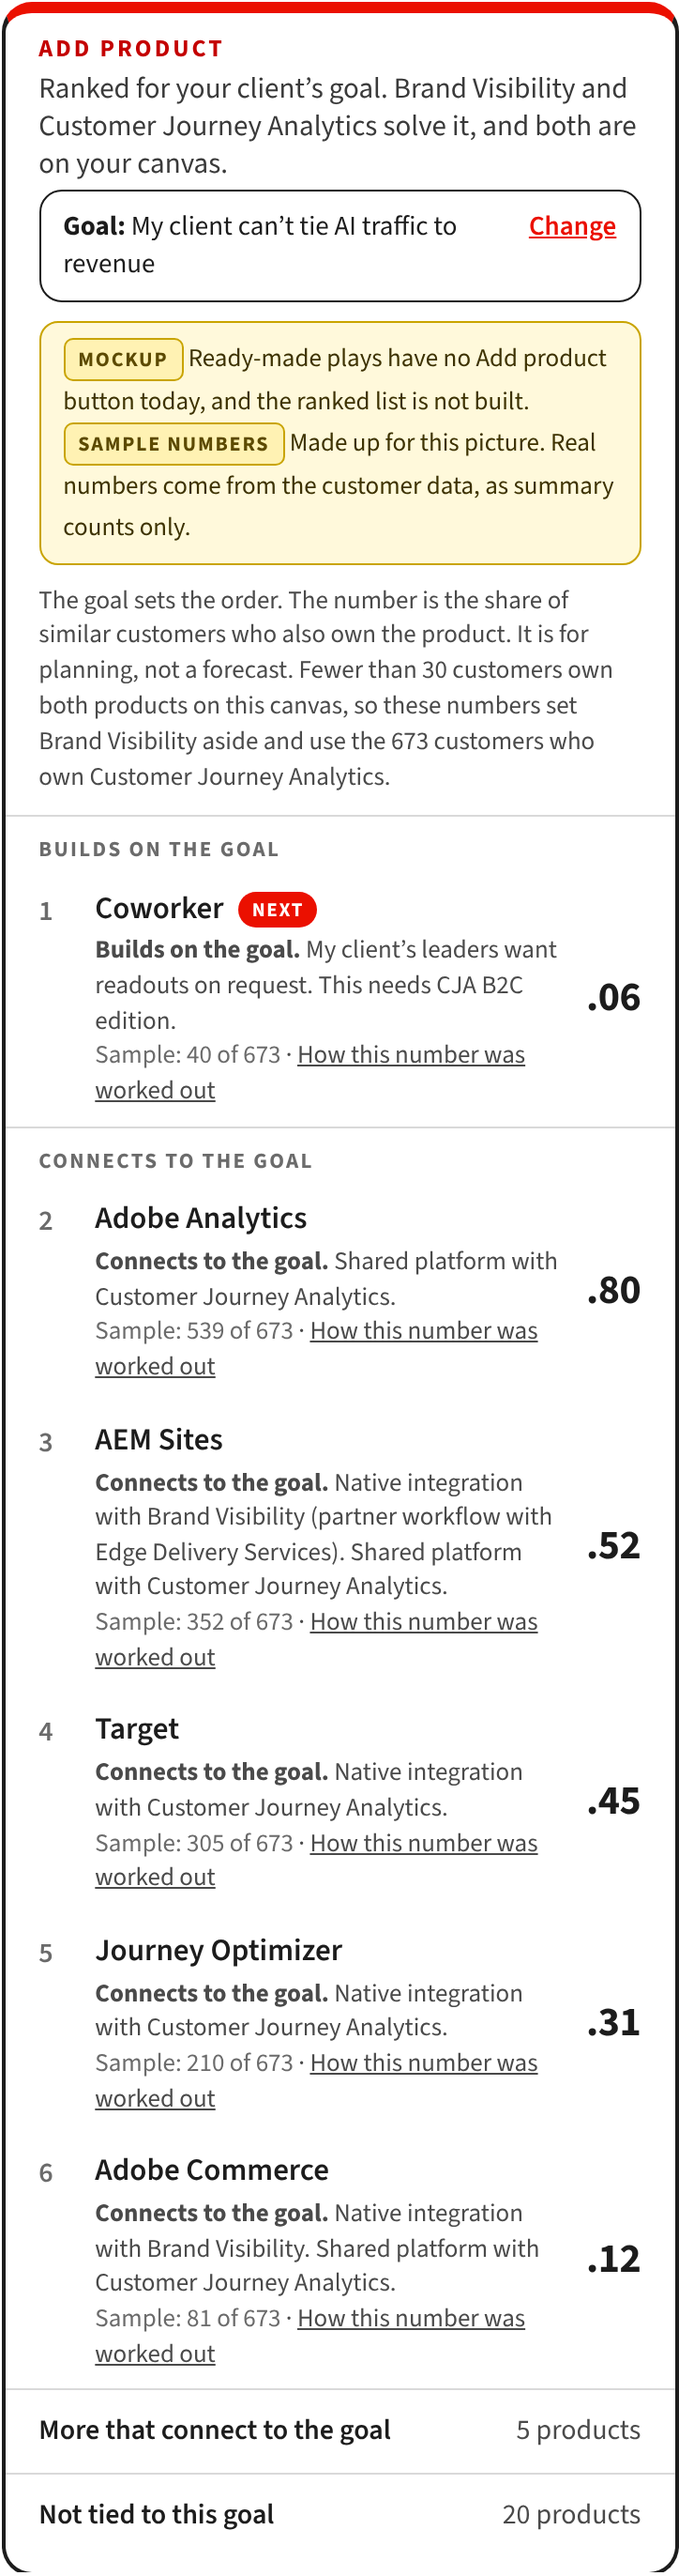
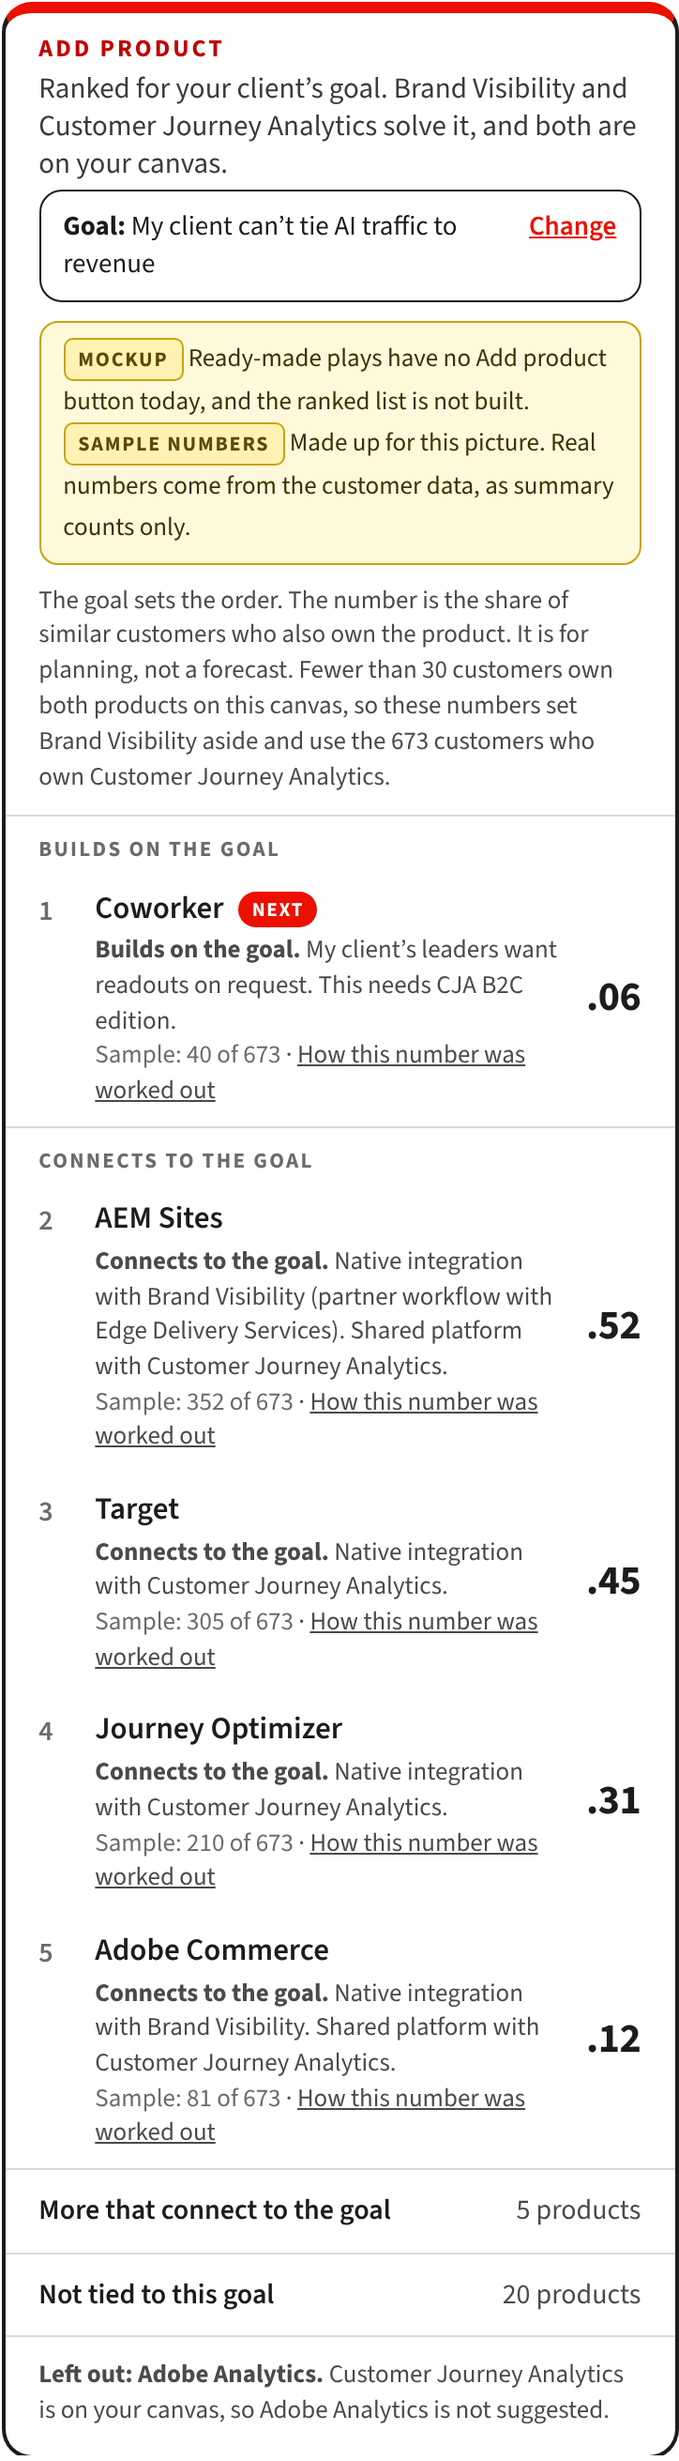
Handoff: Adam's rule (no Adobe Analytics with CJA) and no list before the data [skip netlify]
Work in progress only; nothing in the tool changes.
- Adam: never suggest Adobe Analytics when Customer Journey Analytics is on
  the canvas. The mockup leaves it out and says so; the tab explains rules
  set by hand.
- Adam: partners never see the list without numbers. The no-data mockup
  goes, and the tab says the list ships once the data is loaded and checked.

Claude-Session: https://claude.ai/code/session_016WYrHW3TmtC37K94o1NhYi

diff --git a/handoff/2026-11-17/propensity/method_page/propensity-method.html b/handoff/2026-11-17/propensity/method_page/propensity-method.html
@@ -165,15 +165,16 @@ main h1,main h2,main h3,main .micro{text-wrap:balance}
 </div></section>
 
 <section class="section capability-section sow-case cw-process pm-steps" id="logic"><div class="wrap">
-  <div class="section-heading"><div><p class="eyebrow">How it works</p><h2>The logic,<br>step by step.</h2></div><p>Six steps. The first two need no customer data, so they can work on day one. The other four start when the data is loaded and checked.</p></div>
+  <div class="section-heading"><div><p class="eyebrow">How it works</p><h2>The logic,<br>step by step.</h2></div><p>Six steps. The first two need no customer data. The other four start when the data is loaded and checked. Partners see the list only then, so every product in it comes with its number.</p></div>
   <ol class="capability-flow cw-steps">
       <li><p class="micro">Step 1 · <span>No data needed</span></p><h3>Ask the goal once</h3><p>The tool asks one question for each canvas: what is your client trying to accomplish? The partner picks one of the <strong>23</strong> client problems already in the tool, or types the goal and confirms the closest of the 23. The answer stays with that canvas until the partner changes it.</p></li>
-      <li><p class="micro">Step 2 · <span>No data needed</span></p><h3>Sort every product by fit</h3><p><strong>Solves the goal:</strong> the products that problem calls for. <strong>Builds on the goal:</strong> products added when the partner gives more detail about the client. <strong>Connects to the goal:</strong> products with a documented connection to one that solves it. Everything else comes last, under “Not tied to this goal”. AEM Sites and AEM Sites with Edge Delivery Services share one row. Products already on the canvas are not listed. When a ready-made play already holds every product that solves the goal, the list starts with products that build on the goal. Until the data is loaded, products under the same heading are in name order.</p></li>
+      <li><p class="micro">Step 2 · <span>No data needed</span></p><h3>Sort every product by fit</h3><p><strong>Solves the goal:</strong> the products that problem calls for. <strong>Builds on the goal:</strong> products added when the partner gives more detail about the client. <strong>Connects to the goal:</strong> products with a documented connection to one that solves it. Everything else comes last, under “Not tied to this goal”. AEM Sites and AEM Sites with Edge Delivery Services share one row. Products already on the canvas are not listed. When a ready-made play already holds every product that solves the goal, the list starts with products that build on the goal.</p></li>
       <li><p class="micro">Step 3 · <span>Needs customer data</span></p><h3>Count similar customers</h3><p>Take the customers who own every Adobe product on the canvas. Count how many of them also own the product. That share is the starting number, and the count is shown beside it. Outside systems, such as a CDN or a CRM, are not in the data and are left out.</p></li>
       <li><p class="micro">Step 4 · <span>Needs customer data</span></p><h3>Steady the small groups</h3><p>A small group can show 0 or 1 by chance. So we add <strong>10</strong> pretend customers to every group except all customers. They own the product as often as the next larger group does. Large groups barely move. Small groups stop swinging.</p></li>
       <li><p class="micro">Step 5 · <span>Needs customer data</span></p><h3>Fall back when a combination is rare</h3><p>If fewer than <strong>30</strong> customers own every Adobe product on the canvas, the tool sets one product aside at a time until 30 or more remain, and says which it set aside. Products that neither solve the goal nor build on it are set aside first, then the goal’s own products. Within each kind, the product the fewest customers own goes first. If no product is left, the group is all customers. Expect this often when a canvas holds a new product.</p></li>
       <li><p class="micro">Step 6 · <span>Needs customer data</span></p><h3>Order the list, then re-rank</h3><p>The goal headings come first. Under a heading, the higher number comes first. Each time a product goes on or comes off the canvas, every number is worked out again. The goal stays the same.</p></li>
   </ol>
+  <p class="pm-note"><strong>Rules we set by hand.</strong> A high number does not always mean a good next step. Most customers who own Customer Journey Analytics also own Adobe Analytics, but a client with Customer Journey Analytics does not go back to Adobe Analytics. So when Customer Journey Analytics is on the canvas, the list never suggests Adobe Analytics, and it says so. The team keeps a short list of such rules.</p>
 </div></section>
 
 <section class="section cw-evidence" id="example"><div class="wrap">
@@ -209,9 +210,9 @@ main h1,main h2,main h3,main .micro{text-wrap:balance}
     <p class="pm-shown">On screen: <b>.06</b> with “40 of 673”.</p>
   </div>
   <figure class="pm-figure" id="example-list">
-    <img src="propensity-mockup.png" class="pm-wide" width="1182" height="2020" alt="Mockup of the Add product list on the play Brand Visibility + Customer Journey Analytics. Coworker is first at .06 under Builds on the goal. Under Connects to the goal come Adobe Analytics .80, AEM Sites .52, Target .45, Journey Optimizer .31 and Adobe Commerce .12. All numbers are samples.">
-    <img src="propensity-mockup-phone.png" class="pm-narrow" width="724" height="2744" loading="lazy" alt="Mockup of the Add product list on the play Brand Visibility + Customer Journey Analytics. Coworker is first at .06 under Builds on the goal. Under Connects to the goal come Adobe Analytics .80, AEM Sites .52, Target .45, Journey Optimizer .31 and Adobe Commerce .12. All numbers are samples.">
-    <figcaption><strong>A low number can still lead the list.</strong> In this sample Coworker shows .06 and Adobe Analytics shows .80. Coworker still comes first, because it builds on this goal and Adobe Analytics only connects to it. The number only sorts products under the same heading, such as “Connects to the goal”. It never moves a product to another heading. The link “How this number was worked out” opens the arithmetic.<br><br>The picture is a mockup with sample numbers. Ready-made plays have no Add product button today.</figcaption>
+    <img src="propensity-mockup.png" class="pm-wide" width="1182" height="1970" alt="Mockup of the Add product list on the play Brand Visibility + Customer Journey Analytics. Coworker is first at .06 under Builds on the goal. Under Connects to the goal come AEM Sites .52, Target .45, Journey Optimizer .31 and Adobe Commerce .12. A line at the bottom says Adobe Analytics is left out because Customer Journey Analytics is on the canvas. All numbers are samples.">
+    <img src="propensity-mockup-phone.png" class="pm-narrow" width="724" height="2622" loading="lazy" alt="Mockup of the Add product list on the play Brand Visibility + Customer Journey Analytics. Coworker is first at .06 under Builds on the goal. Under Connects to the goal come AEM Sites .52, Target .45, Journey Optimizer .31 and Adobe Commerce .12. A line at the bottom says Adobe Analytics is left out because Customer Journey Analytics is on the canvas. All numbers are samples.">
+    <figcaption><strong>A low number can still lead the list.</strong> In this sample Coworker shows .06 and AEM Sites shows .52. Coworker still comes first, because it builds on this goal and AEM Sites only connects to it. The number only sorts products under the same heading, such as “Connects to the goal”. It never moves a product to another heading. The link “How this number was worked out” opens the arithmetic.<br><br>The picture is a mockup with sample numbers. Ready-made plays have no Add product button today.</figcaption>
   </figure>
 </div></section>
 

diff --git a/handoff/2026-11-17/propensity/mockups/propensity_mock.js b/handoff/2026-11-17/propensity/mockups/propensity_mock.js
@@ -43,7 +43,7 @@ const CSS = `
 .pp-sub{padding:4px 18px 6px;font-size:11.5px;font-weight:700;letter-spacing:.1em;text-transform:uppercase;color:#6b6b6b}
 .pp-or{padding:0 18px 12px;font-size:14.5px;color:#4a4a4a}
 .pp-or div{margin-top:6px;border:1.5px solid #1C1C1C;border-radius:10px;padding:9px 12px;color:#8a8a8a}
-.pp-new{margin:0 0 6px 20px;border:2px dashed #C9A400;border-radius:12px;padding:3px}
+.pp-left{margin:0;padding:11px 18px 6px;border-top:1px solid #D9D9D9;font-size:13.5px;line-height:1.4;color:#4a4a4a}
 `;
 
 const GOAL = 'My client can’t tie AI traffic to revenue';
@@ -79,44 +79,30 @@ const head = `<div class="hd"><div class="k">Add product</div><p>Ranked for your
 // The reasons use the canvas legend's own words: Native integration, Shared platform, Partner workflow.
 const WHY = {
   cw: 'My client’s leaders want readouts on request. This needs CJA B2C edition.',
-  aa: 'Shared platform with Customer Journey Analytics.',
   commerce: 'Native integration with Brand Visibility. Shared platform with Customer Journey Analytics.',
   aemsites: 'Native integration with Brand Visibility (partner workflow with Edge Delivery Services). Shared platform with Customer Journey Analytics.',
-  bc: 'Partner workflow with Brand Visibility. Native integration with Customer Journey Analytics.',
-  ca: 'Native integration with Customer Journey Analytics.',
   ajo: 'Native integration with Customer Journey Analytics.',
   target: 'Native integration with Customer Journey Analytics.',
 };
 // For this goal and canvas the tool's files give 1 product that builds on the goal, 10 rows that connect to it
-// (AEM Sites' two deliveries are one row) and 20 products not tied to it.
+// (AEM Sites' two deliveries are one row) and 20 products not tied to it. Adobe Analytics is one of the 10 and
+// is left out by Adam's rule, so 9 remain: 4 shown and 5 folded.
 const folds = `<div class="pp-fold">More that connect to the goal <span>5 products</span></div>
-<div class="pp-fold">Not tied to this goal <span>20 products</span></div>`;
-
-// 2. Day one: no customer data. The goal sets the order; under a heading, products are in name order. No numbers.
-const dayOne = head + mock() + `
-<p class="pp-def">No customer data yet. The goal sets the order. Under a heading, products are in name order.</p>
-<div class="pp-grp">Builds on the goal</div>
-${row(1, 'Coworker', 'Builds on the goal', WHY.cw, '', '', true)}
-<div class="pp-grp">Connects to the goal</div>
-${row(2, 'Adobe Analytics', 'Connects to the goal', WHY.aa)}
-${row(3, 'Adobe Commerce', 'Connects to the goal', WHY.commerce)}
-${row(4, 'AEM Sites', 'Connects to the goal', WHY.aemsites)}
-${row(5, 'Brand Concierge', 'Connects to the goal', WHY.bc)}
-${row(6, 'Content Analytics', 'Connects to the goal', WHY.ca)}
-` + folds;
+<div class="pp-fold">Not tied to this goal <span>20 products</span></div>
+<p class="pp-left"><b>Left out: Adobe Analytics.</b> Customer Journey Analytics is on your canvas, so Adobe Analytics is not suggested.</p>`;
 
 const def = '<p class="pp-def">The goal sets the order. The number is the share of similar customers who also own the product. It is for planning, not a forecast. Fewer than 30 customers own both products on this canvas, so these numbers set Brand Visibility aside and use the 673 customers who own Customer Journey Analytics.</p>';
 
-// 3. With data: the goal still sets the order; the number sorts products under the same heading. All numbers are SAMPLE.
+// 2. The list. It ships only once the customer data is in (Adam, Nov 17), so every row has its number.
+// The goal still sets the order; the number sorts products under the same heading. All numbers are SAMPLE.
 const withData = head + mock(' <span class="pp-sample">Sample numbers</span> Made up for this picture. Real numbers come from the customer data, as summary counts only.') + def + `
 <div class="pp-grp">Builds on the goal</div>
 ${row(1, 'Coworker', 'Builds on the goal', WHY.cw, '.06', 'Sample: 40 of 673', true)}
 <div class="pp-grp">Connects to the goal</div>
-${row(2, 'Adobe Analytics', 'Connects to the goal', WHY.aa, '.80', 'Sample: 539 of 673')}
-${row(3, 'AEM Sites', 'Connects to the goal', WHY.aemsites, '.52', 'Sample: 352 of 673')}
-${row(4, 'Target', 'Connects to the goal', WHY.target, '.45', 'Sample: 305 of 673')}
-${row(5, 'Journey Optimizer', 'Connects to the goal', WHY.ajo, '.31', 'Sample: 210 of 673')}
-${row(6, 'Adobe Commerce', 'Connects to the goal', WHY.commerce, '.12', 'Sample: 81 of 673')}
+${row(2, 'AEM Sites', 'Connects to the goal', WHY.aemsites, '.52', 'Sample: 352 of 673')}
+${row(3, 'Target', 'Connects to the goal', WHY.target, '.45', 'Sample: 305 of 673')}
+${row(4, 'Journey Optimizer', 'Connects to the goal', WHY.ajo, '.31', 'Sample: 210 of 673')}
+${row(5, 'Adobe Commerce', 'Connects to the goal', WHY.commerce, '.12', 'Sample: 81 of 673')}
 ` + folds;
 
 (async () => {
@@ -151,7 +137,6 @@ ${row(6, 'Adobe Commerce', 'Connects to the goal', WHY.commerce, '.12', 'Sample:
     await ctx.close();
   }
   await shot('p1_play_goal_question', question);
-  await shot('p2_play_ranked_day_one', dayOne);
   await shot('p3_play_ranked_with_sample_numbers', withData);
   await b.close();
   srv.close();

diff --git a/handoff/2026-11-17/propensity/method_page/build_method_page.py b/handoff/2026-11-17/propensity/method_page/build_method_page.py
@@ -109,15 +109,16 @@ MAIN = '''<main id="main">
 </div></section>
 
 <section class="section capability-section sow-case cw-process pm-steps" id="logic"><div class="wrap">
-  <div class="section-heading"><div><p class="eyebrow">How it works</p><h2>The logic,<br>step by step.</h2></div><p>Six steps. The first two need no customer data, so they can work on day one. The other four start when the data is loaded and checked.</p></div>
+  <div class="section-heading"><div><p class="eyebrow">How it works</p><h2>The logic,<br>step by step.</h2></div><p>Six steps. The first two need no customer data. The other four start when the data is loaded and checked. Partners see the list only then, so every product in it comes with its number.</p></div>
   <ol class="capability-flow cw-steps">
       <li><p class="micro">Step 1 · <span>No data needed</span></p><h3>Ask the goal once</h3><p>The tool asks one question for each canvas: what is your client trying to accomplish? The partner picks one of the <strong>23</strong> client problems already in the tool, or types the goal and confirms the closest of the 23. The answer stays with that canvas until the partner changes it.</p></li>
-      <li><p class="micro">Step 2 · <span>No data needed</span></p><h3>Sort every product by fit</h3><p><strong>Solves the goal:</strong> the products that problem calls for. <strong>Builds on the goal:</strong> products added when the partner gives more detail about the client. <strong>Connects to the goal:</strong> products with a documented connection to one that solves it. Everything else comes last, under “Not tied to this goal”. AEM Sites and AEM Sites with Edge Delivery Services share one row. Products already on the canvas are not listed. When a ready-made play already holds every product that solves the goal, the list starts with products that build on the goal. Until the data is loaded, products under the same heading are in name order.</p></li>
+      <li><p class="micro">Step 2 · <span>No data needed</span></p><h3>Sort every product by fit</h3><p><strong>Solves the goal:</strong> the products that problem calls for. <strong>Builds on the goal:</strong> products added when the partner gives more detail about the client. <strong>Connects to the goal:</strong> products with a documented connection to one that solves it. Everything else comes last, under “Not tied to this goal”. AEM Sites and AEM Sites with Edge Delivery Services share one row. Products already on the canvas are not listed. When a ready-made play already holds every product that solves the goal, the list starts with products that build on the goal.</p></li>
       <li><p class="micro">Step 3 · <span>Needs customer data</span></p><h3>Count similar customers</h3><p>Take the customers who own every Adobe product on the canvas. Count how many of them also own the product. That share is the starting number, and the count is shown beside it. Outside systems, such as a CDN or a CRM, are not in the data and are left out.</p></li>
       <li><p class="micro">Step 4 · <span>Needs customer data</span></p><h3>Steady the small groups</h3><p>A small group can show 0 or 1 by chance. So we add <strong>10</strong> pretend customers to every group except all customers. They own the product as often as the next larger group does. Large groups barely move. Small groups stop swinging.</p></li>
       <li><p class="micro">Step 5 · <span>Needs customer data</span></p><h3>Fall back when a combination is rare</h3><p>If fewer than <strong>30</strong> customers own every Adobe product on the canvas, the tool sets one product aside at a time until 30 or more remain, and says which it set aside. Products that neither solve the goal nor build on it are set aside first, then the goal’s own products. Within each kind, the product the fewest customers own goes first. If no product is left, the group is all customers. Expect this often when a canvas holds a new product.</p></li>
       <li><p class="micro">Step 6 · <span>Needs customer data</span></p><h3>Order the list, then re-rank</h3><p>The goal headings come first. Under a heading, the higher number comes first. Each time a product goes on or comes off the canvas, every number is worked out again. The goal stays the same.</p></li>
   </ol>
+  <p class="pm-note"><strong>Rules we set by hand.</strong> A high number does not always mean a good next step. Most customers who own Customer Journey Analytics also own Adobe Analytics, but a client with Customer Journey Analytics does not go back to Adobe Analytics. So when Customer Journey Analytics is on the canvas, the list never suggests Adobe Analytics, and it says so. The team keeps a short list of such rules.</p>
 </div></section>
 
 <section class="section cw-evidence" id="example"><div class="wrap">
@@ -153,9 +154,9 @@ MAIN = '''<main id="main">
     <p class="pm-shown">On screen: <b>.06</b> with “40 of 673”.</p>
   </div>
   <figure class="pm-figure" id="example-list">
-    <img src="propensity-mockup.png" class="pm-wide" width="{W}" height="{H}" alt="Mockup of the Add product list on the play Brand Visibility + Customer Journey Analytics. Coworker is first at .06 under Builds on the goal. Under Connects to the goal come Adobe Analytics .80, AEM Sites .52, Target .45, Journey Optimizer .31 and Adobe Commerce .12. All numbers are samples.">
-    <img src="propensity-mockup-phone.png" class="pm-narrow" width="{PW}" height="{PH}" loading="lazy" alt="Mockup of the Add product list on the play Brand Visibility + Customer Journey Analytics. Coworker is first at .06 under Builds on the goal. Under Connects to the goal come Adobe Analytics .80, AEM Sites .52, Target .45, Journey Optimizer .31 and Adobe Commerce .12. All numbers are samples.">
-    <figcaption><strong>A low number can still lead the list.</strong> In this sample Coworker shows .06 and Adobe Analytics shows .80. Coworker still comes first, because it builds on this goal and Adobe Analytics only connects to it. The number only sorts products under the same heading, such as “Connects to the goal”. It never moves a product to another heading. The link “How this number was worked out” opens the arithmetic.<br><br>The picture is a mockup with sample numbers. Ready-made plays have no Add product button today.</figcaption>
+    <img src="propensity-mockup.png" class="pm-wide" width="{W}" height="{H}" alt="Mockup of the Add product list on the play Brand Visibility + Customer Journey Analytics. Coworker is first at .06 under Builds on the goal. Under Connects to the goal come AEM Sites .52, Target .45, Journey Optimizer .31 and Adobe Commerce .12. A line at the bottom says Adobe Analytics is left out because Customer Journey Analytics is on the canvas. All numbers are samples.">
+    <img src="propensity-mockup-phone.png" class="pm-narrow" width="{PW}" height="{PH}" loading="lazy" alt="Mockup of the Add product list on the play Brand Visibility + Customer Journey Analytics. Coworker is first at .06 under Builds on the goal. Under Connects to the goal come AEM Sites .52, Target .45, Journey Optimizer .31 and Adobe Commerce .12. A line at the bottom says Adobe Analytics is left out because Customer Journey Analytics is on the canvas. All numbers are samples.">
+    <figcaption><strong>A low number can still lead the list.</strong> In this sample Coworker shows .06 and AEM Sites shows .52. Coworker still comes first, because it builds on this goal and AEM Sites only connects to it. The number only sorts products under the same heading, such as “Connects to the goal”. It never moves a product to another heading. The link “How this number was worked out” opens the arithmetic.<br><br>The picture is a mockup with sample numbers. Ready-made plays have no Add product button today.</figcaption>
   </figure>
 </div></section>
 
